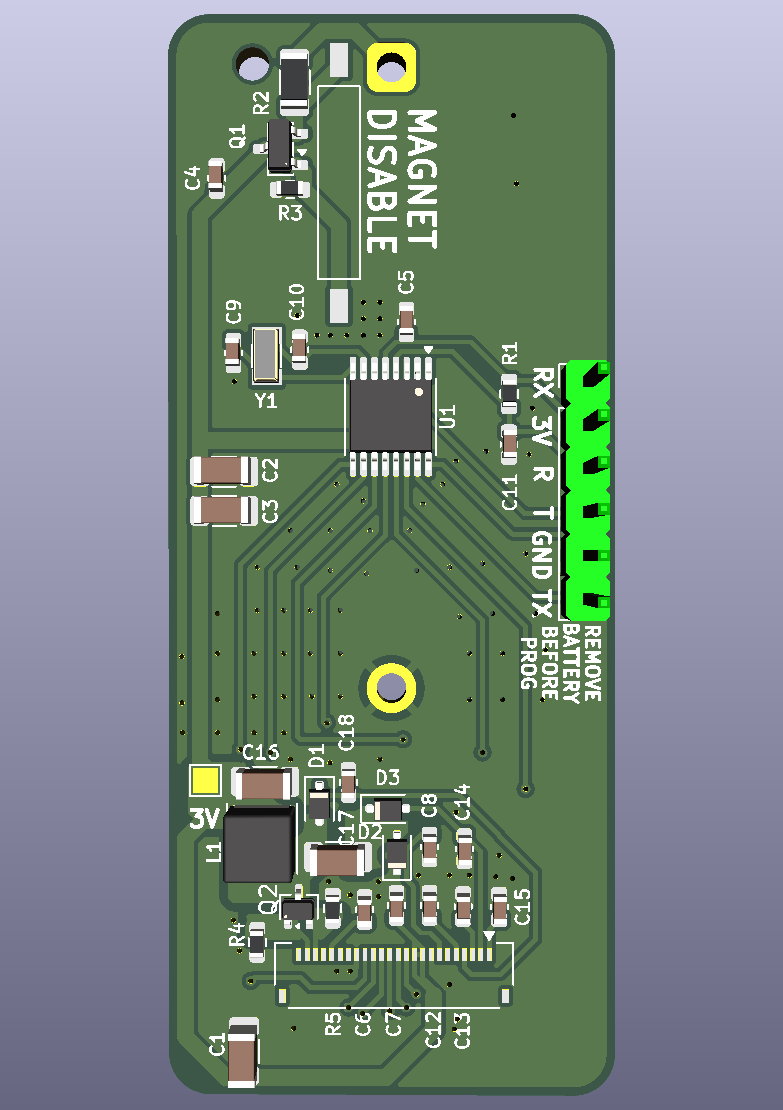
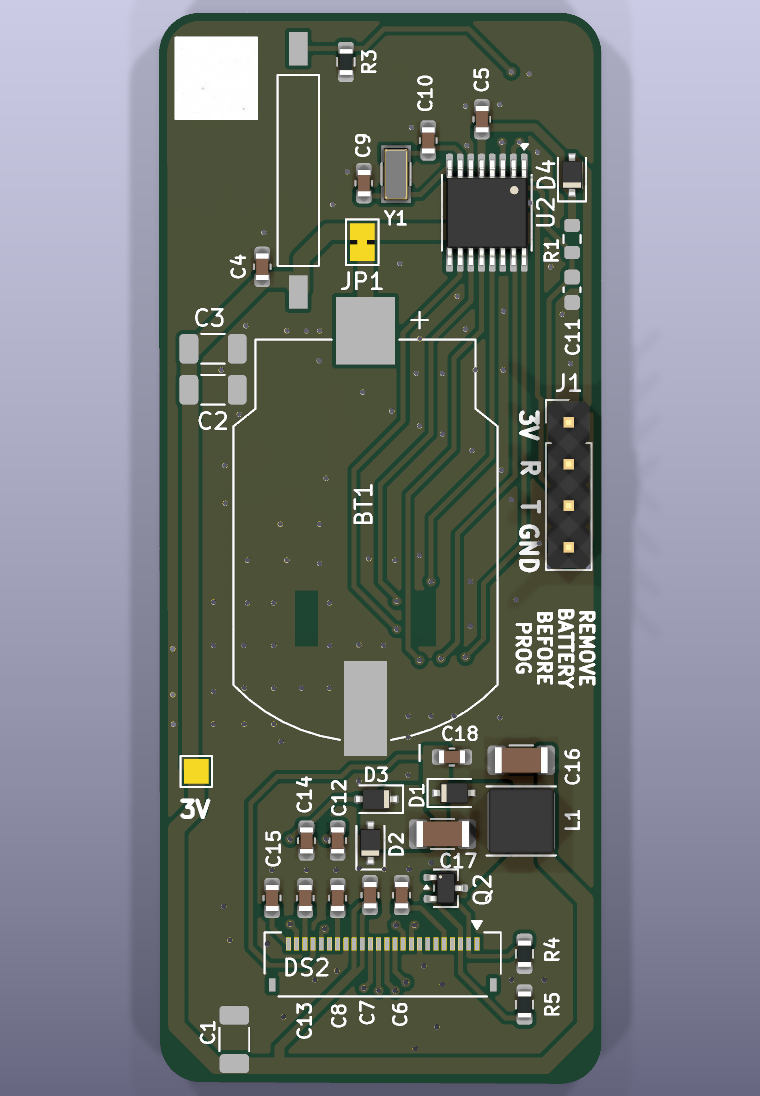
README: describe revision 0.3 as built and measured
The board README still described revision 0.1: an MSP430FR2111, a CR123A, a
P-FET that the magnet used to switch the power off, a six-pin J1 with a
serial port, and power estimates from datasheets. It now covers 0.3: the
FR2422, one CR2032 in an assembled holder, the panel bonded to the bare back
with its tail wrapped round the end, the reed switch as an input with a 2 s
hold, the stored screen and its weekly redraw, a four-pin J1 behind D4, and
JP1 for measuring the current. Its power section now gives the numbers
measured on the first 0.3 board, with cell-life estimates from them, and a
new Ordering section points at the Gerbers, BOM and placement file.

The renders are new, from the g5 board, with a view of the back added.
The firmware README's power table moves from the 0.1 board's numbers and a
stored-mode estimate to the 0.3 measurements.

diff --git a/README.md b/README.md
@@ -1,153 +1,161 @@
 # ocn-ePaper
 
-A battery-powered elapsed-time counter with a 2.13-inch e-paper display and a magnetic off switch.
-While a magnet sits at the marked end, the board is switched off. Take the magnet away and it powers
-up and counts elapsed time in hours and minutes, up to 99:59 (about 100 hours). Put the magnet back
-and it powers down several seconds later, leaving the last count on the display; the next time the
-magnet comes off, counting starts again from 00:00.
+A battery-powered elapsed-time counter with a 2.13-inch e-paper display and a magnetic switch. Take the
+magnet away from the marked end and, 2 seconds later, the board starts counting elapsed time in hours and
+minutes from 00:00, up to 99:59 (about 100 hours). Put the magnet back and, 2 seconds later, the count stops
+and the display switches to a stored screen showing the stopped time. The board then sleeps at under 1 µA until
+the magnet comes off again, which starts a new count from 00:00.
 
 It is the e-paper version of [ocn-LCD](https://github.com/z2amiller/ocn-LCD), which uses a segment
 LCD.
 
 ![Front, 3D render](ocn-ePaper-front.png)
+![Back, 3D render](ocn-ePaper-back.png)
 ![Isometric, 3D render](ocn-ePaper-iso.png)
 
-The renders leave out the e-paper panel (it lies over the front), its socket, the reed switch and the
-CR123A holder (on the back), which have no 3D models. They show a header in J1, which stays empty on
-a finished board.
+The renders leave out the e-paper panel (it lies over the back), the reed switch and the cell holder, which
+have no 3D models. They show a header in J1, which stays empty on a finished board.
 
-Status: revision 0.1, not yet built. Firmware will be added to this repository. The folded tail's pin
-order has not yet been checked against a real panel.
+Status: revision 0.3, built. The first boards came back assembled from JLCPCB in November 2026, and the
+firmware in [`firmware/`](firmware/) runs on them: counting, the stored screen and the magnet all work as
+described here. Revisions 0.1 and 0.2 used an MSP430FR2111 and a CR123A cell, with the magnet switching the
+power; they are in this repository's history (tag `ocn-ePaper-0.2-g2`).
 
 ## How it works
 
-- **Counting.** An MSP430FR2111 keeps time from a 32.768 kHz crystal. It spends almost all its time
-  in its deepest sleep mode with only the clock running, and wakes to update the display.
-- **Display.** The panel is a Good Display GDEY0213B74: 2.13 inches, 250 × 122 pixels, black and
-  white. E-paper holds its image with no power at all, so the panel sleeps between updates, and the
-  last count stays on the screen after the board powers down. Updating it takes higher positive and
-  negative voltages. The panel's own controller makes them with a small boost converter on the board
-  (L1, Q2, D1–D3), which runs only during an update.
-- **Mounting.** The panel lies display-up over the front of the board, 3 mm above it, with its tail
-  folded under it into a socket (DS2) on the board. Every part on the front fits under it; the
-  tallest, L1, is 2.6 mm.
-- **Power.** A CR123A lithium cell (3 V, about 1,500 mAh) in a holder on the back.
-- **Magnet switch.** The magnet closes a normally open reed switch (SW1). That pulls the gate of a
-  P-channel MOSFET (Q1) up to the cell voltage and cuts power to everything after it. With the
-  magnet away, a 10 MΩ resistor pulls the gate low and the board runs. While switched off, the only
-  drain on the cell is that resistor, about 0.3 µA.
-- **Reset on purpose, not by accident.** About 20 µF of capacitance after the switch keeps the board
-  running for several seconds after the magnet arrives (roughly 5–15 s, depending on the panel's
-  sleep current), so a brief knock or switch bounce does not reset the count. Leaving the magnet in
-  place longer than that powers the board down. If the magnet arrives during a display update, which
-  draws about 3.5 mA, the board stops within milliseconds and the image may be left half-updated
-  until the next power-up.
+- **Counting.** An MSP430FR2422 keeps time from a 32.768 kHz crystal (Y1). It spends almost all its time in
+  its deepest sleep mode with only the clock running, and wakes once a minute to update the display.
+- **Display.** The panel is a Good Display GDEY0213B74: 2.13 inches, 250 × 122 pixels, black and white.
+  E-paper holds its image with no power at all, so the panel sleeps between updates. Each minute is a quick
+  partial update; every sixth is a full refresh, which flashes the panel and clears the ghosting partial
+  updates leave behind. Updating takes higher positive and negative voltages. The panel's own controller
+  makes them with a small boost converter on the board (L1, Q2, D1–D3), which runs only during an update.
+  Under the count, a status line shows a battery gauge and voltage and the temperature.
+- **Mounting.** The panel is bonded display-out to the back of the board, which is bare: every part is on
+  the front. Its tail wraps 180° round the board's bottom edge into a socket (DS2) on the front. The panel
+  (59.2 × 29.2 mm) is a little wider than the 27 mm board.
+- **Power.** One CR2032 lithium coin cell (3 V, about 225 mAh) in a holder on the front (BT1). There is no
+  power switch: the cell stays connected through JP1, a solder jumper that comes bridged and can be cut to
+  measure the current.
+- **Magnet switch.** The magnet closes a normally open reed switch (SW1), which pulls one of the MCU's pins
+  (P1.0) up to the supply; a 10 MΩ resistor (R3) pulls it low otherwise. The board stays powered either way,
+  and the firmware reads the pin. A change counts only once the switch has held its new position for 2 s, so
+  a magnet brushing past changes nothing. While the magnet is on, R3 draws about 0.3 µA, a third of the
+  stored current.
+- **Stored.** With the magnet on, the count stops and the stored screen shows the stopped time, which is
+  also kept in the MCU's FRAM through any reset. The MCU wakes every 34 minutes and redraws the screen about
+  once a week, as Good Display recommends for a panel that keeps showing the same picture. A count that
+  reaches 99:59 stays there and is redrawn weekly the same way.
+- **Power-up.** Fitting the cell starts a count from 00:00 if the magnet is away, or shows the stored screen
+  with the last stopped time if it's on.
 
-## Power budget
+The [firmware README](firmware/README.md) covers the details: the screens, the battery gauge, and what
+happens when a cell sags too far to finish an update.
 
-Estimates at 3.0 V and 25 °C, from the TI datasheet (SLASE78) and Good Display's spec for the panel.
-They will be replaced by measurements once the firmware is in.
+## Power
 
-| Item | Counting (magnet away) | Off (magnet in place) | Basis |
-|---|---|---|---|
-| MCU asleep (LPM3.5), with the 32 kHz crystal and RTC running | 0.44 µA | 0 | Datasheet 0.66 µA typical with the supervisor (SVS) on; turning it off saves about 0.22 µA |
-| Panel controller in deep sleep between updates | 1 µA (5 µA max) | 0 | Good Display spec |
-| Display updates, once a minute | ~50 µA | 0 | 3.5 mA while updating, 0.42 s for a partial update and 3 s for a full one, with a full refresh after every five partial ones as Good Display recommends |
-| MCU awake for each update (writing the image, waiting on BUSY) | ~0.2 µA | 0 | ~10 ms at ~1 mA per update, then light sleep while the panel updates |
-| Gate pull-down R3 (10 MΩ across the cell while the reed is closed) | 0 | 0.3 µA | 3.0 V / 10 MΩ |
-| Q1 MOSFET leakage while off | – | a few nA | Typical; the datasheet maximum is specified at 30 V |
-| Hold-up capacitors, leakage | ~1 nA | 0 | MLCC insulation resistance |
-| Reset pull-up, reed switch, unused pins (driven low) | 0 | 0 | No DC path |
-| **Total** | **about 52 µA** | **about 0.3 µA** | |
+Measured on the first revision 0.3 board, at room temperature, with a fresh CR2032 (3.05 V) in its holder
+and a Nordic PPK2 meter in line with it through a cut JP1.
 
-The display updates dominate. One partial update uses as much charge as about 17 minutes of sleep,
-and a full refresh as about 2 hours, so the update rate sets the battery life.
-
-Estimated runtime on one CR123A (1,500 mAh nominal), allowing about 1 %/year for the cell's own
-self-discharge:
-
-| Mode | Average draw | Estimated runtime |
+| | Charge | Time |
 |---|---|---|
-| Counting, display updated once a minute | about 52 µA | about 3 years |
-| Counting, display updated every 10 minutes | about 6–10 µA | over 10 years |
-| Off (magnet in place) | about 0.3 µA | decades |
+| Partial update, each minute while counting | 1.10 mC | 0.8 s |
+| Full refresh: every sixth update, each switch of screen, and the weekly redraw | 3.28 mC | 2.3 s |
+| Power-up, before the first full refresh | 0.1 mC | 0.25 s |
+| Stored, the MCU's wake every 34 minutes | 0.37 µC | 1.8 ms |
+| Asleep between updates, counting | about 0.6 µA | |
+| Stored, between wakes, including 0.31 µA through R3 | 0.93 µA | |
 
-The last two are longer than a CR123A's rated shelf life of about 10 years, so in practice the cell's
-age sets the limit, not this circuit. Cold reduces the cell's usable capacity, and the panel is
-specified to update only between 0 and 50 °C.
+- **Counting** averages about 24 µA, over the six-minute cycle of five partial updates and a full refresh.
+  The updates are nearly all of it: one partial update costs as much as half an hour asleep. A full count
+  from 00:00 to 99:59 uses about 2.4 mAh, about 1 % of the cell.
+- **Stored** averages 0.94 µA, wakes and the weekly redraw included: about 8.2 mAh a year. Over a 9.3-hour
+  run, every hour averaged between 0.925 and 0.940 µA.
 
-Firmware choices that keep it there:
-- Update the count once a minute at most; slower updates last much longer.
-- Use partial updates, with a full refresh after every five to keep ghosting down.
-- Put the panel in deep sleep after each update, and sleep in LPM3 while BUSY is high. Check BUSY
-  again after its falling edge wakes the MCU, before sending the next command.
-- Leave the voltage supervisor (SVS) off in LPM3.5; it costs about 0.2 µA. The brownout reset stays
-  on regardless.
-- Keep the panel's RES line driven while the panel is in use, and drive every unused pin low.
+Estimated life on one CR2032, taking 225 mAh and about 1 % a year of the cell's own self-discharge:
+
+| Use | Charge a year | Cell life on paper |
+|---|---|---|
+| Stored all year | about 10.5 mAh | about 21 years |
+| 100 hours of counting a year, stored the rest | about 12.8 mAh | about 17 years |
+| 500 hours of counting a year | about 22 mAh | about 10 years |
+| Counting all year | about 213 mAh | about 13 months |
+
+A CR2032's shelf life is about 10 years, so below about 500 hours of counting a year the cell's age sets
+the limit, not this circuit. Cold reduces the cell's usable capacity and raises its internal resistance,
+which matters most during a full refresh, and the panel is specified to update only between 0 and 50 °C.
+The battery gauge is read during each update, while the booster loads the cell, so it warns before the
+supply could sag under the panel's 2.2 V minimum.
 
 ## Placing the magnet
 
-The reed switch is at the end marked MAGNET DISABLE and runs along the length of the board. It
-responds to field along its own length, so use a magnet magnetized through its flat faces (a
-neodymium cylinder or disc), at that end, with its axis along the board and its face toward the
-board's end. SW1's axis is 3.2 mm from the board's centreline, so a magnet centred on the board's end
-lines up with it closely. A model of a typical 10 × 8 mm N42 cylinder (no nearby steel) gives several
-times the switch's ~2–3 mT pull-in out to about 20 mm, even 9 mm off the switch's axis.
-
-**Steel nearby.** The CR123A's case is steel, and it sits on the back directly behind the switch.
-That changes the field around the switch, and its effect hasn't been measured yet. Check the
-switching distance on the bench with a cell fitted.
+The reed switch is at the end away from the panel's tail, and runs along the length of the board. On the
+back, an arrow and the words MAGNET DISABLE mark that end; once the panel is on, it covers the words but not
+the arrow. It responds to field along its own length, so use a magnet magnetized through its flat faces
+(a neodymium cylinder or disc), at that end, with its axis along the board and its face toward the board's
+end. SW1's axis is 5 mm off the board's centreline, on the side away from J1. A model of a typical 10 × 8 mm
+N42 cylinder (no nearby steel) gives several times the switch's ~2–3 mT pull-in out to about 20 mm, even
+9 mm off the switch's axis.
 
 The switch lets go only once the magnet is a few centimeters away (the same model puts it at about
-35–40 mm in line), so move the magnet well clear to start counting.
+35–40 mm in line), so move the magnet well clear to start counting, and keep it clear for the 2 s hold.
+
+The cell sits about 12 mm from the switch. A magnet switches the first boards with a cell fitted, but the
+switching distances haven't been measured on revision 0.3.
 
 ## Key parts
 
 | Ref | Part | LCSC |
 |---|---|---|
-| U1 | TI MSP430FR2111IPW, TSSOP-16 | C2052845 |
+| U2 | TI MSP430FR2422IPW, TSSOP-16 | C191019 |
 | DS2 | Good Display GDEY0213B74 2.13" e-paper panel, in a Hirose FH34SRJ-24S-0.5SH socket | C324726 (the socket) |
-| BT1 | MYOUNG BH-123A-A1CJ002 CR123A holder, through-hole | C5290177 |
+| BT1 | Lian Xin BS-CR2032-8 CR2032 holder, surface mount | C7498149 |
 | SW1 | Littelfuse 59170-1-S-00-D reed switch, normally open, 10–15 AT | C315909 |
-| Q1 | AO3401A P-channel MOSFET, SOT-23 (power switch) | C15127 |
 | Q2 | Vishay Si1308EDL N-channel MOSFET, SOT-323 (display booster) | C469327 |
 | L1 | Changjiang FNR4030S470MT 47 µH inductor, 4 × 4 mm | C167888 |
-| D1–D3 | 1N5819WS Schottky diode, SOD-323 | C191023 |
-| Y1 | 32.768 kHz crystal, 3215, 12.5 pF | C32346 |
+| D1–D4 | 1N5819WS Schottky diode, SOD-323 (D1–D3 for the booster, D4 for the programmer's supply) | C191023 |
+| Y1 | TKD SF32WK32768D31T002 32.768 kHz crystal, 3215, 12.5 pF | C271654 |
 
-Every part in the BOM carries its LCSC number. The panel itself comes from Good Display; DS2's BOM
-line is its socket. J1 and TP3 are left out of the BOM and the placement file, and so are BT1 and
-SW1, which are fitted by hand. The passives are 0603 and 1206.
+The passives are 0603 and 1206. C1–C3, R1 and C11 are left empty: the board runs without them.
+
+## Ordering
+
+The files for revision 0.3 (tag `ocn-ePaper-0.3-g5`), for JLCPCB's PCB and assembly service:
+- [`GERBER-ocn-ePaper.zip`](GERBER-ocn-ePaper.zip): the Gerbers and drill files. The board is 27 × 65.3 mm,
+  two layers, 1.6 mm thick.
+- [`jlcpcb/production_files/BOM-ocn-ePaper.csv`](jlcpcb/production_files/BOM-ocn-ePaper.csv) and
+  [`CPL-ocn-ePaper.csv`](jlcpcb/production_files/CPL-ocn-ePaper.csv): the bill of materials and the
+  placement file, all front side.
+
+Every part in the BOM carries its LCSC number except J1, which stays empty. DS2's line is the panel's
+socket: the panel itself comes from Good Display. The cell holder and the reed switch are assembled with
+everything else.
 
 ## Assembly
 
-1. **Surface-mount parts, all on the front.** A stencil helps with the 0.65 mm pitch MCU. The reed
-   switch is rated for reflow and can go on with the rest.
-2. **CR123A holder on the back, by hand.** Trim its two pins close on the front afterwards. Untrimmed,
-   they stand about 2.5 mm proud, under a panel that sits 3 mm up.
-3. **Program the MCU** (see below). J1 ends up under the panel, so do this before the panel goes on.
-4. **Panel.** Open the socket's latch and slide the tail in, with the panel lying face down beyond the
-   end of the board nearest the socket, then close the latch. Fold the panel over onto a 3 mm spacer on the front, so it lies
-   display-up over the board. Double-sided foam tape works as the spacer and keeps pressure off the
-   glass.
-5. **Battery.** Fit the CR123A last, matching the + and − marks on the back.
+1. **Surface-mount parts, all on the front**, from the BOM and placement file. A stencil helps with the
+   0.65 mm pitch MCU if you build it yourself. The reed switch is rated for reflow and can go on with the
+   rest.
+2. **Program the MCU** (see below). Once the panel is on, it covers J1's holes on the back, so do this first.
+3. **Panel.** Open DS2's latch and slide the tail in, with the panel lying display-up beyond the end of the
+   board nearest the socket, then close the latch. Fold the panel under, round the board's end, so it lies
+   display-out on the bare back. A thin double-sided tape, about 0.2 mm, holds it there; the footprint's
+   bend radius assumes that thickness, and the fold stands about 1.5 mm past the board's end.
+4. **Cell.** Fit the CR2032 last, + side up.
 
 ## Programming
 
-The MCU is programmed over Spy-Bi-Wire from the eZ-FET programmer on a TI MSP-EXP430FR4133
-LaunchPad. Any MSP430 LaunchPad with an eZ-FET should also work. J1, on the board's long edge,
-carries the four programming signals plus the MCU's serial port. It is a row of six 0.1-inch holes
-that stays empty: the panel covers it once fitted.
+The MCU is programmed over Spy-Bi-Wire from the eZ-FET programmer on a TI MSP-EXP430FR4133 LaunchPad. Any
+MSP430 LaunchPad with an eZ-FET should also work. J1, on the board's long edge, is a row of four 0.1-inch
+holes, labelled 3V, R, T and GND on both sides, that stays empty.
 
-1. **Take the cell out.** The LaunchPad powers the board at 3.3 V. With the magnet away, Q1 is on
-   and would pass that straight back into the cell, and a CR123A must never be charged. The
-   silkscreen beside J1 says so too.
-2. **Pull every jumper off the LaunchPad's J101 isolation block.** That disconnects the
-   LaunchPad's own MCU, so the eZ-FET talks only to this board.
-3. **Connect J1.** Push a straight 6-pin header into J1's holes without soldering it, holding it
-   tilted slightly so the pins press against the hole walls. Wire it to J101 with dupont jumpers,
-   using the J101 pins on the eZ-FET (emulator) side, not the side that runs to the LaunchPad's own
-   MCU:
+1. **Take the cell out.** The LaunchPad powers the board through D4, and with a cell fitted it would push
+   current into the cell, which a lithium coin cell must never take. The silkscreen beside J1 says so too.
+2. **Pull every jumper off the LaunchPad's J101 isolation block.** That disconnects the LaunchPad's own
+   MCU, so the eZ-FET talks only to this board.
+3. **Connect J1.** Push a straight 4-pin header into J1's holes without soldering it, holding it tilted
+   slightly so the pins press against the hole walls. Wire it to J101 with dupont jumpers, using the J101
+   pins on the eZ-FET (emulator) side, not the side that runs to the LaunchPad's own MCU:
 
    | ocn-ePaper J1 | LaunchPad J101, eZ-FET side |
    |---|---|
@@ -155,31 +163,30 @@ that stays empty: the panel covers it once fitted.
    | R | SBW RST |
    | T | SBW TST |
    | GND | GND |
-   | RX (optional, serial) | RXD |
-   | TX (optional, serial) | TXD |
 
-   The serial names match straight across. J101 labels its pins from the target MCU's point of
-   view, so its RXD carries data into this board's RX.
+4. **Flash the firmware.** The [firmware README](firmware/README.md) has the build and a `make flash` that
+   uses DSLite from TI's Code Composer Studio; TI UniFlash works too, with the MSP430FR2422 and the
+   LaunchPad's eZ-FET as the connection.
+5. **Power-cycle the board after flashing.** It shows its first screen straight away, but stays in the
+   debugger's session, where it won't count or see the magnet, until the LaunchPad's USB is unplugged and
+   plugged in again.
+6. **Unplug the LaunchPad before fitting the cell or measuring current.** Its Spy-Bi-Wire lines feed the
+   MCU.
 
-4. **Flash the firmware** with TI UniFlash or Code Composer Studio. Select the MSP430FR2111 and the
-   LaunchPad's eZ-FET as the connection. A command-line recipe will come with the firmware.
-5. **Unplug the LaunchPad before measuring current or fitting the cell.** The programming and
-   serial lines draw current of their own.
-
-**Serial port.** RX and TX are on P1.2 and P1.3. They share the MCU's only serial block with the
-panel's SPI, so firmware switches the block between the two.
-
-**Measuring battery current.** R2 (1 Ω, 1206) sits in series with the cell. Lift it and connect a
-current meter across its pads. TP3 is a test pad on the switched 3 V supply.
+**Measuring the current.** JP1, a solder jumper next to Y1, carries all of the cell's current. Cut the bridge
+between its pads and connect a current meter across them, the cell side (BT1 +) to the meter's input. TP3,
+labelled 3V, is a test pad on the supply after JP1, and J1's GND is ground. Solder the bridge closed
+afterwards. `firmware/tools/ppk.py` runs a Nordic PPK2 this way, for seconds or overnight.
 
 ## Files
 
-- `ocn-ePaper.kicad_pro`, `.kicad_sch` and `.kicad_pcb`: the KiCad 10 project. The board is
-  27 × 65.3 mm, two layers.
-- `lib/`: the board's own symbols and footprints: the MSP430FR2111, the GDEY0213B74 and its
-  folded-tail footprint (the socket, plus the panel's outline on the User.Drawings layer), the CR123A
-  holder and the reed switch. The project's library tables point at this folder, so the project opens
-  without any other library installed.
+- `ocn-ePaper.kicad_pro`, `.kicad_sch` and `.kicad_pcb`: the KiCad 10 project.
+- `lib/`: the board's own symbols and footprints: the MSP430FR2422 (and the FR2111 of the earlier
+  revisions), the GDEY0213B74 and its wrapped-to-back footprint (the socket, plus the panel, its tail and the
+  fold on the User.Drawings layer), the CR2032 holder and the reed switch. The project's library tables
+  point at this folder, so the project opens without any other library installed.
+- `firmware/`: the MCU's firmware, MIT licensed. Its README covers building, flashing and how it works.
+- `GERBER-ocn-ePaper.zip` and `jlcpcb/`: the fabrication and assembly files (see Ordering).
 
 ## License
 

diff --git a/firmware/README.md b/firmware/README.md
@@ -13,25 +13,27 @@ hold all work as described below. The weekly redraw and the brownout handling ha
 The FR2111 boards (revisions 0.1 and 0.2), where the magnet switches the power, run the firmware as of commit
 54b0ff0.
 
-## Measured on the first board
+## Measured on revision 0.3
 
-These are from revision 0.1 (FR2111, a CR123A, the magnet switching the power), with a Nordic PPK2 supplying
-3.0 V in place of the cell. The panel and its booster are the same on revision 0.3, so the updates should cost
-about the same.
+On the first revision 0.3 board, at room temperature, with a fresh CR2032 (3.05 V) in its holder and a Nordic
+PPK2 in line with it through a cut JP1 (`tools/ppk.py --ampere`):
 
 | | Charge | Time | Peak |
 |---|---|---|---|
-| Partial update (each minute) | 1.04 mC | 0.8 s | 58 mA |
-| Full refresh (every sixth update) | 3.25 mC | 2.3 s | 59 mA |
-| Power-up, including the crystal start and a full refresh | 3.44 mC | 2.4 s | 59 mA |
-| Asleep between updates | about 0.4 µA | | |
+| Partial update (each minute) | 1.10 mC | 0.8 s | 59 mA |
+| Full refresh (every sixth update, each switch of screen, the weekly redraw) | 3.28 mC | 2.3 s | 60 mA |
+| Power-up, before the first full refresh | 0.1 mC | 0.25 s | |
+| RTC wake while stored, every 2,048 s | 0.37 µC | 1.8 ms | |
+| Asleep between updates, counting | about 0.6 µA | | |
+| Stored, between wakes | 0.93 µA | | |
 
 That averages about 24 µA while counting, over the six-minute cycle of five partial updates and a full
-refresh. The updates are nearly all of it: one partial update costs as much as about 40 minutes asleep.
+refresh. The updates are nearly all of it: one partial update costs as much as about half an hour asleep.
 
-Stored, revision 0.3 should draw about 0.7-0.9 µA: 0.4-0.6 µA asleep (0.4 measured on the FR2111; the
-FR2422's datasheet gives 0.63 µA typical for LPM3.5 with the crystal and SVS), plus 0.3 µA through R3 while
-the magnet holds WAKE high. The weekly redraw of the stored screen adds about 0.01 µA.
+Stored averages 0.94 µA: about 0.6 µA for the chip and the sleeping panel, 0.31 µA through R3 while the
+magnet holds WAKE high, and well under 0.01 µA for the wakes and the weekly redraw. That is about 8.2 mAh a
+year, and over a 9.3-hour run every hour averaged between 0.925 and 0.940 µA. The board's
+[README](../README.md#power) turns these into cell life.
 
 ## How it works
 
@@ -47,7 +49,7 @@ the magnet holds WAKE high. The weekly redraw of the stored screen adds about 0.
   matters most, because taking the magnet off starts a new count and the stopped time is lost.
 - **Counting** (magnet off). The RTC, clocked from the 32.768 kHz crystal, wakes the chip once a minute. Each
   wake wakes the panel with a hardware reset, sends it the old and the new count, and starts a partial update
-  (about half a second at ~3.5 mA). After every five partial updates comes a full refresh (about 2.3 s; the
+  (about 0.8 s, 1.1 mC). After every five partial updates comes a full refresh (about 2.3 s; the
   panel flashes black and white), which clears the ghosting that partial updates leave. Then the panel goes
   back into deep sleep, where it draws about 1 µA.
 - **At 99:59** the count stops, drawn with a full refresh. The RTC then drops to the stored mode's wakes every
